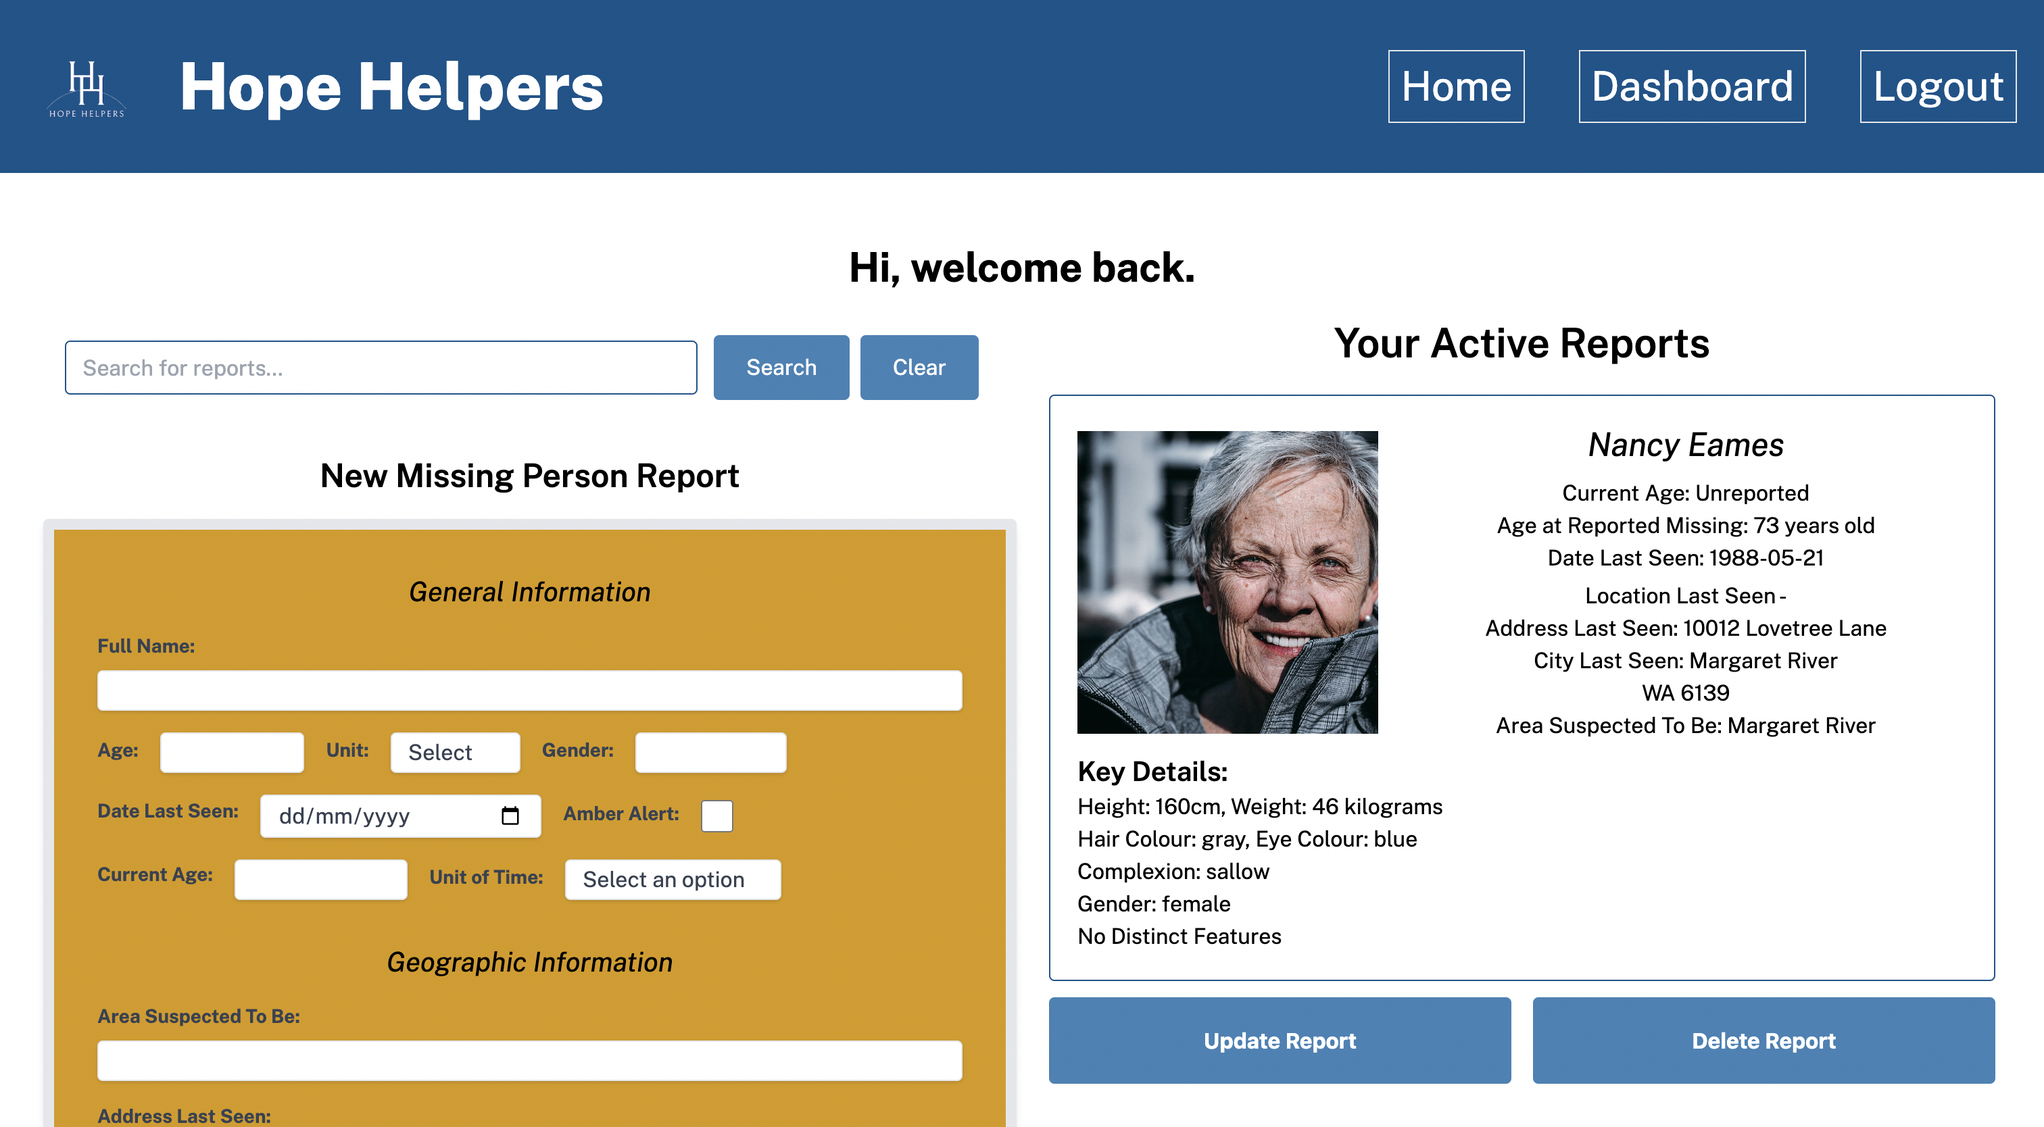
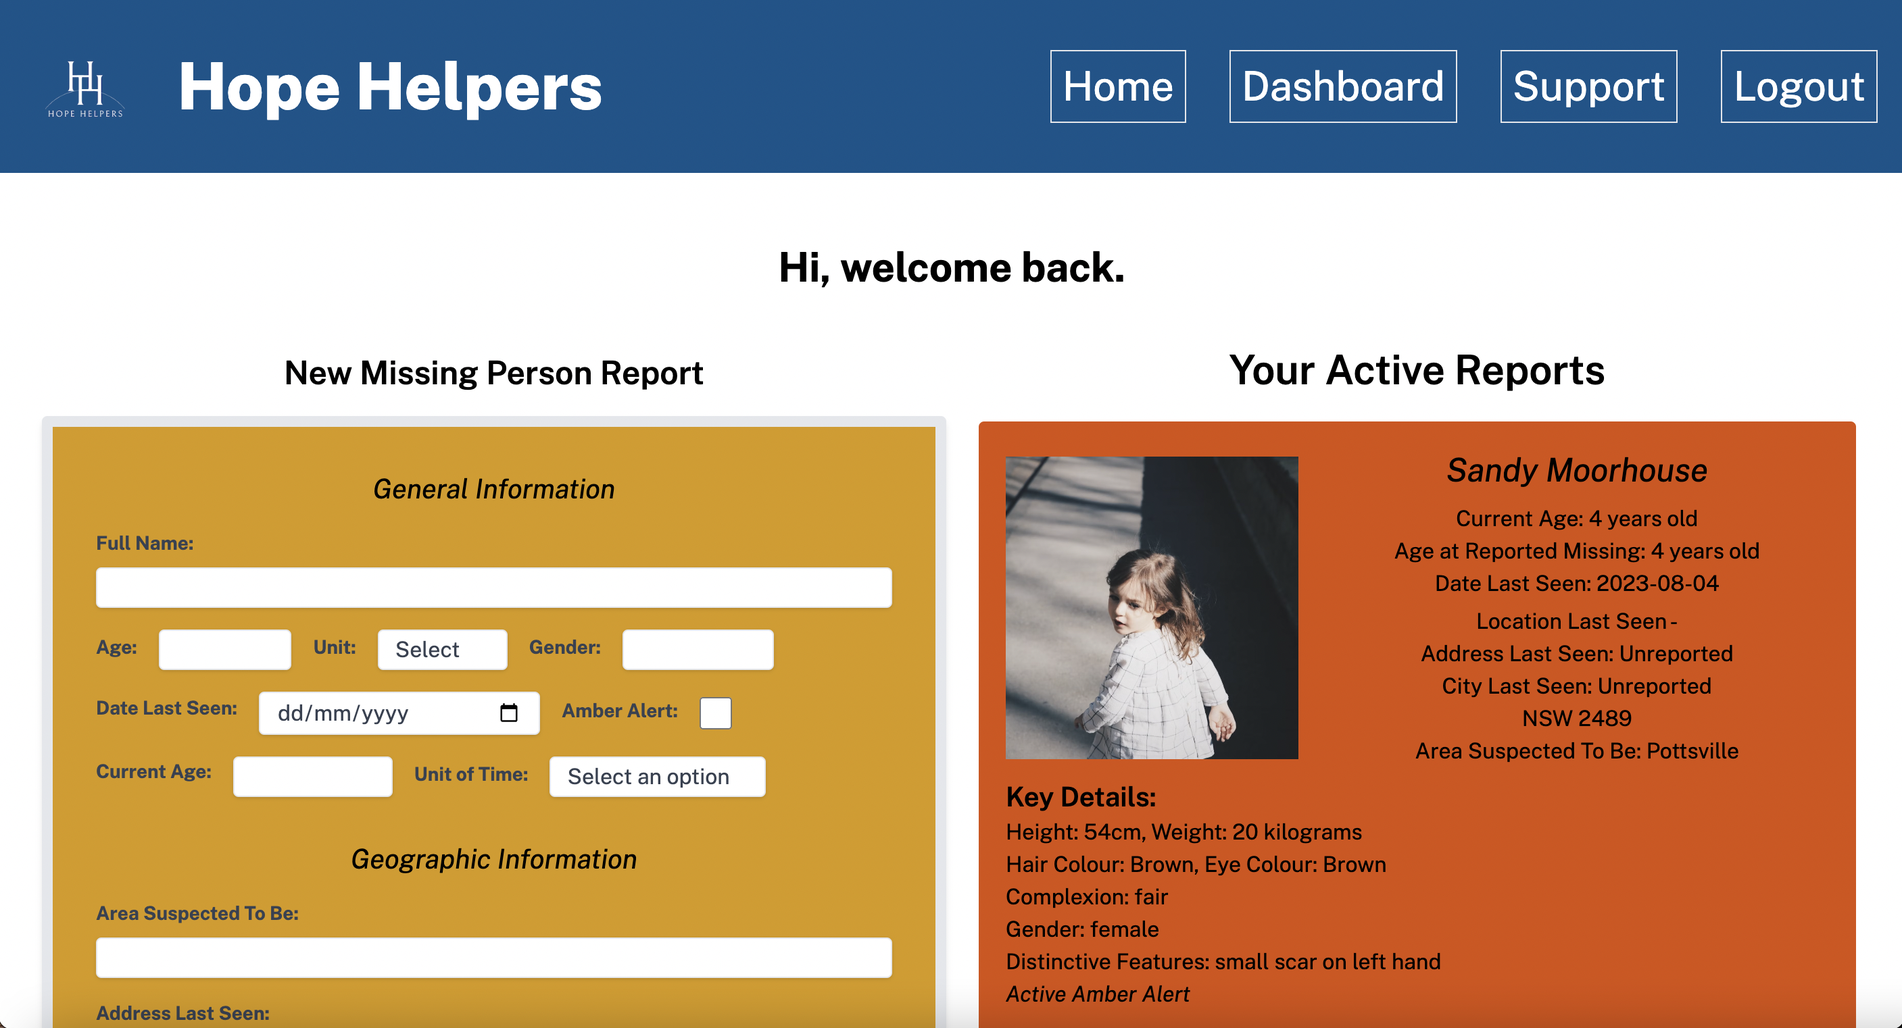
docs: readme updated with changes from prelim planning

diff --git a/README.md b/README.md
@@ -3,8 +3,8 @@
 #### Connie Jacques and Sarah Landis
 
 ### Deployed Versions:
-#### [Front End Demo]()
-#### [Back End Demo]()
+#### [Front End Demo](https://hope-helpers.netlify.app/)
+#### [Back End Demo](https://hope-helpers.onrender.com/)
 
 ### Repositories:
 #### [Front End Repository](https://github.com/Sarah-Connie/hope-hunters-front-end)
@@ -18,17 +18,97 @@
 ### Documentation:
 #### [Preliminary Documentation (Part A)]()
 ____
+### Technical Dependencies and Libraries Used: 
+- Axios: 
+   > 
+   Although Fetch API was originally planned to be used in the frontend of this project to make requests to the server, Axios was the chosen library to do so instead. Axios was ultimately chosen for a few reasons including its robustness in handling errors, automatic JSON parsing, and general ease of configurability. 
+   >
+   Due to the way the database and the api endpoints were configured and the duties of the frontend in terms of manipulating and prepopulating forms going between plain JSON and objects with nested arrays of data, Axios seemed to be a better fit. It made the process simpler as it was easy to get the response in JSON without having to manually parse the data and do other manipulations prior to using it.
+   >
+   The backend also handled a lot of errors and would send them as responses when appropriate. Using axios allowed the frontend to catch these errors easily and display them as they were intended and in the correct situations.
+   >
+   Lastly, with the number of endpoints in the backend, setting up a baseURL made making the requests a lot simpler across numerous calls in numerous components/pages. This promotes easy modifications should the server URL ever change and/or the application be required to be scaled in the future. 
+   >
+   Overall Axios aided in the handling of the backend data and simplied the process of making server requests from the frontend. It also assisted in utilizing complex data structures to being able to manipulate them in a functional way.  
+>
+- React Responsive
+    >
+    `react-responsive` is a library used for manipulating rendered components depending on screen size. This library proved useful as it allowed for many conditional elements to be styled in one way for mobile screens and another way for desktops. Not only was it used for component styling but entire layouts. One example, in the `SignupVerification` component, it was required to navigate to a certain route contingent upon screen size. Using `react-responsive` assisted in doing this easily with less lines of code.
+    >
+    ```javascript
+      const isMdScreenOrLarger = useMediaQuery({ minWidth: 768 });
 
+     // Set a timer to navigate after 5 seconds
+        const timer = setTimeout(() => {
+          if (isMdScreenOrLarger) {
+            navigate("/report");
+          } else {
+            navigate("/signup");
+          }
+        }, 5000);
+    ```
+    >
+    In conjunction with the `useMediaQuery` hook, a media breakpoint was effectively set for medium screens at 768px, in which if the screen was larger than that set size, the app would effectively be able to navigate to a specific route with leaving the frontend in a breaking state.
+    >
+- React Share Social
+    > 
+    Since the frontend required a method in which to share reports to social media, some research was done to see if there were any existing packages that would assist in doing so.
+    >
+    `react-share` was a package that came with out of the box functionality to implement icons and buttons of a plethora of social media outlets. Implementation was made seamless. Please see a below example of how this library was used:
+    >
+    ```javascript
+    <FacebookShareButton
+        url={`https://www.hopehelpers.netlify.app/?searchQuery=${report.fullName}`}
+        // url={shareUrl}
+        quote={`${facebookQuote}`}
+        target="_blank"
+    >
+        <FacebookIcon size={26} round />
+    </FacebookShareButton>
+    ```
+    >
+    To utilize this package, all that was required was to import the sharebuttons and associated icons from the library, as such
+    `import { FacebookShareButton } from 'react-share';`
+    and use as above. This library integration allowed the frontend to successfully integrate direct social media sharing into the application and successfully meet user expectations and needs. 
+>
+- Tailwind CSS
+    > 
+    Tailwind CSS is a popular utility-first CSS framework. Tailwind features out-of-the-box pre-defined utility classes which can be used across all frontend elements. Due to the fact that there were many reused but also dynamically rendered components, it was handy to use Tailwind as it was easier to ensure consistency across the site. No need to come up with nuanced class names to be used in CSS styling, but rather styles could be directly applied to components in the same file. 
+    >
+    This alone made it much easier to consistently and appropriately style the site across screensizes and different design layouts.
+    >
+    For example,
+    >
+    ```javascript
+    if (error) {
+        // Render the error message if there is one
+        return <p className="m-5 w-[500px] flex justify-center text-red-500 text-xl md:text-2xl ml-3 italic">{error}</p>;
+    }
+    ```
+    >
+    This `<p>` element is used to render an error however in this exact instance the error needs to be a certain width. Rather than having multiple, slightly differently named `<p>` tags in the CSS file, the styles could be applied directly to the element. In doing so, each element was able to have unique styling and be modified on the spot. 
+>
+- React-testing-library
+    >
+    The chosen testing library for the frontend was `react-testing-library`. This library was chosen as its a popular, lightweight testing utility made for React applications.
+    >
+    In using `react-testing-library`, the tests were able to directly interact with the DOM by using methods such as `getByText`, `getByRole`, and `getByTestID`. When working with an application with lots of conditional rendering, it made it easy to directly find the element that was being tested.
+    >
+    Additional features of `react-testing-library` that were beneficial in testing this application were the ability to simulate user actions such as clicks, typing and form submissions. Much of the site is based around these three things specifically and being able to test these points of contact aided in proceeding with integration tests as well.
+    >
+    Lastly, `react-testing-library` has built in functionality to handle asynchronous operations which the frontend was largely dependent on thru calls to the server and subsequent api. Using the libraries built-in methods such as `waitFor` was largely beneficial in simulating these calls to the api and the flow once a response was recieved.
+>
 ### UX/UI Modifications:
 This project strongly adheres to the preplanning documentation except for some minor changes. Please see below UX/UI nuances and respective reasoning for the modifications.
 
 #### Site name
-One major deviation from the original planning stage is the site name. 'Hope Hunters' was the initial site name however after going thru the rest of the planning stages including user stories, color schema, etc., it was deemed that the word 'hunters' was not conveying an appropriate message to people affected by a missing person. 
+
+One major deviation from the original planning stage was the site name. 'Hope Hunters' was the initial site name however after going thru the rest of the planning stages including user stories, color schema, etc., it was deemed that the word 'hunters' was not conveying an appropriate message to people affected by a missing person. 
 
 Synonyms to the word 'hunter' include stalker, kill, and predator amongst other negatively geared words. This site is intended to help those who are affected by missing persons and help the community. Using the word 'hunters' could cause further trauma to an already delicate user. Therefore, it was a natural transition from Hope Hunters to Hope Helpers, as the goal of the site is to help those affected in some way and gain the support and further awareness of the community.
 
 #### Logo
-The logo was also created after preliminary planning had completed, and was not specified or designed in the preplanning stage of this application. The logo was intended to play off the site name in a positive way, and eventually evolved to feature the two H's of Hope Helpers in shape of ladders and resembling the interconnectivity of hands, as shown below. ![intertwined hands](./src/assets/images/hands.jpg) This was an intentional design meant to signify an upward motion (climbing a ladder) congruent to the word 'hope' and 'helpers'. Lastly in the logo, a thin semicircle runs through the ladders, signifying a hill or a sun, also aiding in the message of a rising motion, being at the top, or in essence, reinvigorating hope and seeing light at the end of a tunnel. 
+The logo was also created after preliminary planning had completed, and was not specified or designed in the preplanning stage of this application. The logo was intended to play off the site name in a positive way, and eventually evolved to feature the two H's of Hope Helpers in shape of ladders and resembling the interconnectivity of hands, as shown below. ![intertwined hands](./src/assets/images/hands.jpg) This was an intentional design meant to signify an upward motion (climbing a ladder) congruent to the meaning of the word 'hope' and 'helpers'. Lastly in the logo, a thin semicircle runs through the ladders, signifying a hill or a sun, also aiding in the message of a rising motion, being at the top, or in essence, reinvigorating hope and seeing light at the end of a tunnel. 
 
 Please see a large version of the purposefully designed logo for the Hope Helpers site below.
 >
@@ -36,6 +116,82 @@ Please see a large version of the purposefully designed logo for the Hope Helper
 
 #### Layout
 
+- ##### Homepage
+    >
+    - Desktop
+        > 
+        A major visual change in design was the general layout of reports. In the prototype there was a lot of wasted space by only including two reports side by side. In development a change was made to have 3 reports side by side for the purpose of getting more information on the page across a smaller amount of space. By featuring large images, a user has the ability to scroll quickly and rely moreso on facial recognition to find a user (or the searchbar) than needed to read all the text in depth. In theory, if they see a face they know, the call to action is to read the information and share it as they wish (for a general public user). 
+        >
+        In terms of the user interface, minimizing the amount of time it takes to find information is paramount especially when there may be hundreds of reports on a page at any given time. Condensing the reports and effectively showing the important data was highly considered in the development stages, post preliminary planning and design.
+        >
+        Please view the change below for large screens.
+        >
+        Original Prototype:
+        >
+        ![desktop home proto](./src/assets/images/desktop-home-proto.png)
+        >
+         ![desktop home final](./src/assets/images/desktop-home-final.png)
+        >
+        Based on the users needs and frustrations that were discovered from extensive user stories, a few additional features were required to be included in the homepage design. Required features such as a searchbar and a sorting dropdown were implemented to satisfy user requirements and needs. 
+        >
+        Please view the drop down implementation across both screens below as they were not designed in the preliminary planning.
+         >
+        ![desktop sortmenu final](./src/assets/images/desktop-sortmenu-final.png)
+        >
+         ![mobile sortmenu final](./src/assets/images/mobile-sortmenu-final.png)
+        >
+        Additional nice-to-have features included a static Support page (header needed to be modified to allow for navigation to this page as shown in the above photo) and a dynamic Amber Alert banner. 
+        >
+        Support page below for mobile and desktop screens.
+        >
+        ![desktop support final](./src/assets/images/desktop-support-final.png)
+        >
+        ![mobile support final](./src/assets/images/mobile-support-final.png)
+        >
+        The third feature with a slightly modified design from the prelimary planning is the social media share buttons. Originally designed to be arrows, but changed to represent the actual sharing outlet instead. This was done to improve clarity for the user and reduce clicks, as with an arrow, another click would've been required to select which social media outlet the user wished to push to.
+        >
+        These three features enhance the user's experience and aid in facilitating easy access to a wider breadth of information. 
+        >
+        Across all screens, the searchbar/sorting menu and amber alert banner are sticky on scroll, further aiding the user with seamless navigation and filtering abilities when looking at all the reports.
+        >
+    - Mobile:
+        >   
+        Based on these design deviation on desktop, appropriate changes were also designed to match on mobile devices.
+        >
+         ![mobile home proto](./src/assets/images/mobile-home-proto.png)
+        >
+         ![mobile home final](./src/assets/images/mobile-home-final.png)
+        >
+        On mobile, the sort dropdown sits beneath the searchbar, so as not to crowd or truncate the search query or the selected sorting parameter text. The social media icons are featured at the top of the report.
+        >
+        Another slight deviation between the preliminary stage and the production site is the layout of the reports on mobile screens. In the preliminary stages, the report information was solely to be side by side (image left, text right). However, due to the amount of information that was decided to be shown to a public user, the layout featured the original design, but with the additional text added below the main content row. The change was implemented as originally less information was going to be shown on the homepage, but that would defeat the purpose of the site. 
+        >
+        The site is intended to share information of missing persons, so it was appropriate to include all the report information and make that available to any user, not just those who had accounts. 
+        >
+        We didn't want a requirement to signup to interfere or deter users from trafficking the site and using it for its intended purpose, so the decision was made to show all information across the site at all times.
+        >
+        As mentioned, due to the added nice-to-have feature of a support page, the navigation was required to be adapted to permit navigation to the Support page on mobile as well. 
+        >
+        Not considered a deviation from design, but rather an addition, here is the nuance in design between the prototype and the final outcome for the hamburger menu on mobile screens.
+        >
+         ![mobile ham proto](./src/assets/images/mobile-ham-proto.png)
+        >
+         ![mobile ham final](./src/assets/images/mobile-ham-final.png)
+        >
+        An added feature to the hamburger menu that was considered after the preplanning design stages was the use case of navigation on a page once scrolled. 
+        >
+        Considering that on the homepage, a user may be many scrolls down the page looking for a report but wish to renavigate to their dashboard. In that instance, they would be required to rescroll all the way to the top and click the hamburger menu from there. This scenario would be across all routes on mobile. 
+        >
+        The resolution which was implemented was a sticky hamburger menu that appears at the bottom right of the page, only when the page is scrolled. This was an added (technically) nice-to-have feature, however it seemed that it was more a requirement to enhance the user experience on mobile.
+        >
+        This is the final design used in production for the sticky hamburger menu.
+        >
+         ![mobile sticky ham final](./src/assets/images/mobile-scrolledham-final.png)
+        >
+        The sticky hamburger menu sits at the bottom right of the screen and when opened, the `x` is positioned in the same location to minimize user exertion in case they wish to close the menu straight away, or accidentally open the menu. This prevents them from having to look for how to close it - by placing the `x` in the same position as where they opened the menu, the opening and closing of the menu becomes intuitive.
+        >
+         ![mobile sticky ham opened final](./src/assets/images/mobile-scrolledham-open-final.png)
+        >
 - ##### Dashboard
     >
     - Desktop
@@ -46,7 +202,7 @@ Please see a large version of the purposefully designed logo for the Hope Helper
         >
         Once in the process of developing, the original design for the dashboard on larger screens, specifically the 'Active Reports' section, became too cramped and busy. In order to preserve visual importance and clarity for the user, the design was modified to feature a single column of reports rather than two columns. 
         >
-        In making this modification, the images and related missing person information remain at a size promoting readability for users of all ages to better understand visually. The layout is neater and more succinct in directing the user to the intended action whilst remaining neat.
+        In making this modification, the images and related missing person information remain at a size suitable for readability for users of all ages and promote visual comprehension. The layout is neater and more succinct in directing the user to the intended action whilst remaining uncrowded.
         >
         Please see below for the final layout.
         >
@@ -54,16 +210,31 @@ Please see a large version of the purposefully designed logo for the Hope Helper
         > 
         The header navigation links were also modified to render a link back to home `/` when not on the `/` route for navigational convenience.
         > 
+        Due to the ability to delete both reports and user account, an added confirmation UI was designed for the user to confirm the process of deletion. This element was not designed in preliminary planning but is considered a required feature to inhibit accidental deletion of reports or accounts. People of all ages will be using the site, so ensuring the intended user action is occuring was integral in promoting seamless and intentional user flow.
+        >
+        ![desktop confirmation final](./src/assets/images/desktop-deleteconfirmation-final.png)
+        >
+        The same feature was added to mobile as well to preserve action integrity.
+        >
+        ![mobile confirmation final](./src/assets/images/mobile-deleteconfirmation-final.png)
+        >
     - Mobile 
         >
-        The position of the searchbar and 'File New Report' form were also slightly changed. This was due to the fact that the buttons for forms are connected, meaning when one button is clicked, the others are manipulated to show whatever text to access whatever form is not displayed.
+        The position of the searchbar and 'File New Report' form were also slightly changed. This was due to the fact that the buttons for forms are connected, meaning when one button is clicked, the others are manipulated to show the related text to access whichever form is not displayed.
         >
         ![mobile dash proto](./src/assets/images/mobile-dash-proto.png)
         >
         Rather than position them side by side, continuity was chosen between the main page and the dashboard, in terms of the layout. On the dashboard, the searchbar is conditionally rendered if the user has more than 4 reports, or if they're admin/police users. A layout that suited when the searchbar wasn't rendered without leaving a gaping space in the UI was required.
         >
-        It was also important that the search bar input was no cut off, so it was moved to sit under the 'File New Report' button whose position is static regardless of the searchbar rendering.
+        It was also important that the search bar input was not cut off, so it was moved to sit under the 'File New Report' button whose position is static regardless of the searchbar rendering.
         >
          ![mobile dash final](./src/assets/images/mobile-dash-final.png)
         >
-        Lastly, for the mobile dashboard, no form is rendered on mount in order to allow the user to view the full UI and reports prior to opening up a report form. The report form sits in the planned location, under the 'File New Report' button/searchbar and above the active reports on file.
+        Lastly, for the mobile dashboard, no form is rendered on mount in order to allow the user to clearly view the full UI and reports prior to opening up a report form. The report form sits in the planned location, under the 'File New Report' button/searchbar and above the active reports on file.
+        >
+- ##### Login and Signup (mobile only) / Report
+    > 
+    No changes were made the general design or layout of the login and signup forms however a field was added to the signup form to allow the user to confirm their password.
+
+
+
